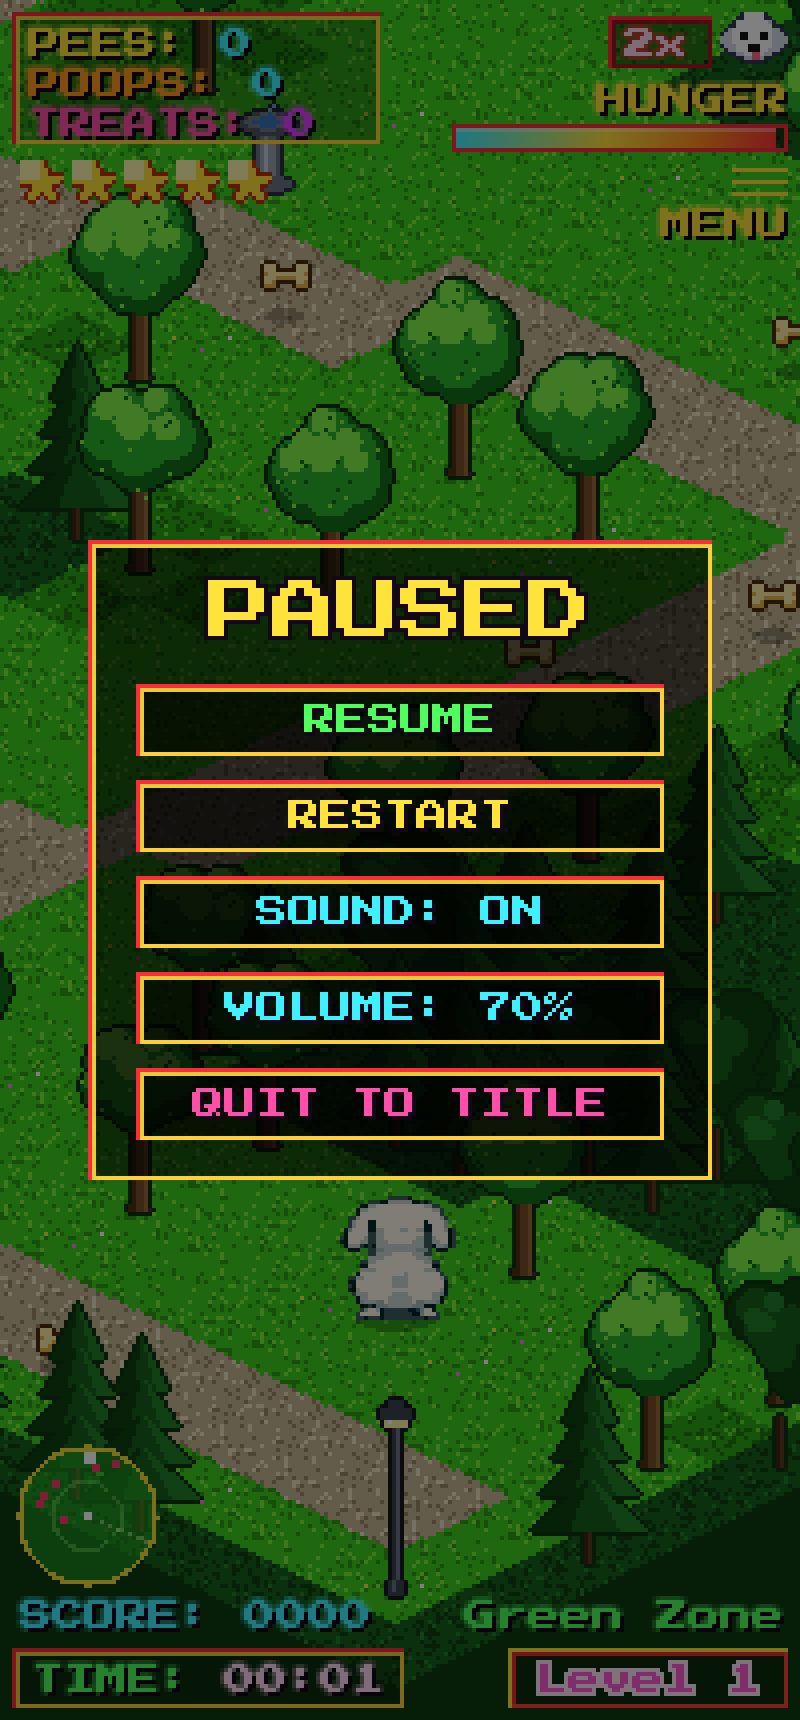
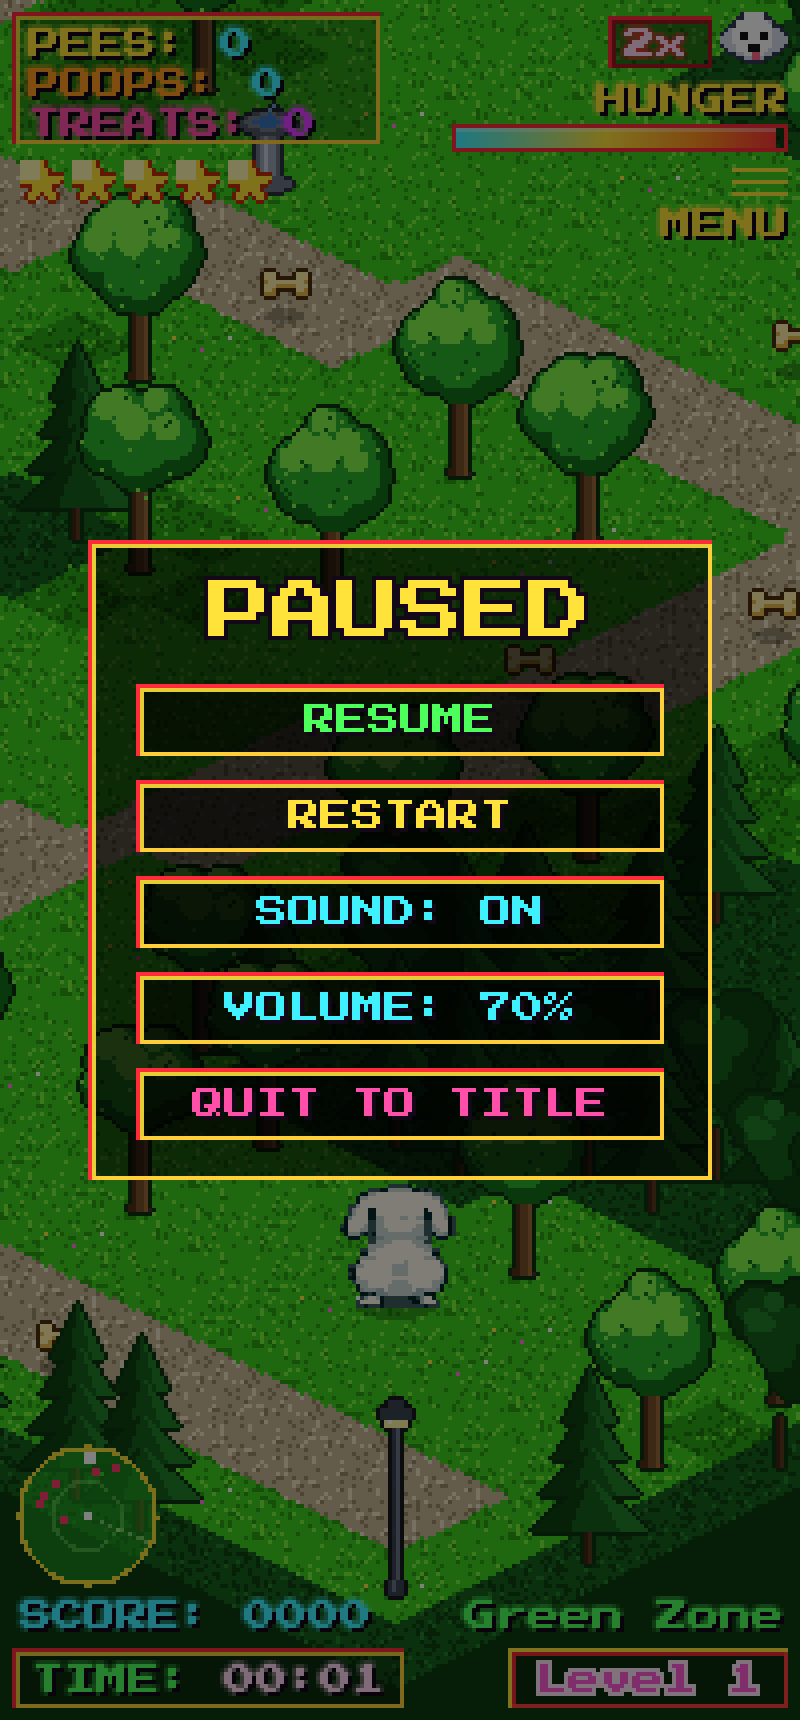
Title block centered between title and footer; faster base speed
- The portrait, buttons, INSERT BRAIN and SPEED FOR LIVES sit as one
  block centered between CRUSADER and SUPERVOID EDITIONS (measured from
  the dog's visible top), the title unmoved.
- Walk 4.4, run 7.5 tiles/s at the base 2 lives (hunger drain in
  proportion). The balance test checks the shortest walk in tiles.
  Full playtest passes.

Claude-Session: https://claude.ai/code/session_01M83brc3uYNtkMe9oqkk4LQ

diff --git a/src/scenes/overlays.ts b/src/scenes/overlays.ts
@@ -181,35 +181,33 @@ export class TitleScene extends Overlay {
       this.title.anchor.set(0.5);
     }
     const cx = Math.round(w / 2);
-    // The title near the top (TITLE.TOP), the buttons TITLE.BOTTOM_GAP above the publisher line
-    // with INSERT BRAIN between them (nearer the buttons), and the portrait in the middle of the
-    // space between the title and the buttons.
+    // The title near the top (TITLE.TOP). Under it, one block (the portrait, the buttons, INSERT
+    // BRAIN with its lives counter, SPEED FOR LIVES) centered between CRUSADER and the publisher
+    // line: the same space above and below it.
     const halfTitle = Math.round(this.title.height / 2);
     const titleY = Math.round(h * TITLE.TOP) + halfTitle;
     const editionY = titleY + halfTitle + 10;
-    const headerBottom = editionY + 6;
+    const headerBottom = editionY + 5;
     const footerTop = h - 6 - this.footer.textHeight;
-    const baseBottom = h - 16 - TITLE.BOTTOM_GAP;
-    // The buttons and INSERT BRAIN are raised TITLE.BUTTONS_RAISE towards the portrait, which stays
-    // where it was (centered between the title and the buttons' unraised place).
-    const menuBottom = baseBottom - TITLE.BUTTONS_RAISE;
-    const menuY = menuBottom - this.menu.height;
-    // SPEED FOR LIVES keeps SPEED_FOR_LIVES_LINES lines of space above the publisher line; INSERT
-    // BRAIN and its lives counter sit just above it.
-    const lineH = this.footer.textHeight + 2;
-    const speedY = footerTop - TITLE.SPEED_FOR_LIVES_LINES * lineH - this.speedText.textHeight;
     const rowH = 12;
-    const bestY = speedY - 5 - rowH;
-    // The portrait takes DOG_WIDTH of the screen, smaller if it would not fit (short screens).
-    const gapTop = headerBottom + 6;
-    const roomCenter = baseBottom - this.menu.height - 6 - gapTop;
-    const roomFit = menuY - 6 - gapTop;
-    const dogW = Math.max(24, Math.min(Math.round(w * TITLE.DOG_WIDTH), Math.floor(roomFit / TITLE.DOG_ASPECT)));
+    const below = TITLE.DOG_MENU_GAP + this.menu.height + TITLE.INSERT_BRAIN_GAP + rowH + 5 + this.speedText.textHeight;
+    const space = footerTop - headerBottom;
+    // The portrait takes DOG_WIDTH of the screen, smaller if the block would not fit (short screens).
+    const maxDogH = space - below - 2 * TITLE.BLOCK_MIN_MARGIN;
+    const dogW = Math.max(24, Math.min(Math.round(w * TITLE.DOG_WIDTH), Math.floor(maxDogH / TITLE.DOG_ASPECT)));
     const dogH = this.layoutDog(dogW);
-    const dogY = Math.min(gapTop + Math.max(0, Math.round((roomCenter - dogH) / 2)), menuY - 6 - dogH);
+    // The animated portrait's frame has a sliver of transparent space over the dog's head (the
+    // crop margin): center what is seen, not the frame.
+    const my = TITLE.DOG_CROP_MARGIN[1];
+    const topPad = this.artShown === 'old' ? 0 : Math.round((dogH * my) / (1 + 2 * my));
+    const margin = Math.max(0, Math.round((space - (dogH - topPad) - below) / 2));
+    const dogY = headerBottom + margin - topPad;
+    const menuY = dogY + dogH + TITLE.DOG_MENU_GAP;
+    const bestY = menuY + this.menu.height + TITLE.INSERT_BRAIN_GAP;
+    const speedY = bestY + rowH + 5;
     this.title.position.set(cx, titleY);
     this.edition.position.set(cx, editionY);
-    this.dog.position.set(cx, Math.max(gapTop, dogY));
+    this.dog.position.set(cx, dogY);
     this.menu.layout(w / 2, menuY);
     this.layoutLives(cx, bestY, rowH);
     this.speedText.position.set(cx, speedY);

diff --git a/src/config.ts b/src/config.ts
@@ -45,8 +45,8 @@ export const CAMERA = {
 } as const;
 
 export const PLAYER = {
-  WALK_SPEED: 3.9,
-  RUN_SPEED: 6.7,
+  WALK_SPEED: 4.4,
+  RUN_SPEED: 7.5,
   ACCEL: 16,
   DECEL: 20,
   /** Collision radius in tiles. */
@@ -89,17 +89,15 @@ export const TITLE = {
   /** The title (SUPERVILLAINED CRUSADER): its top at this fraction of the screen height. */
   TOP: 0.07,
   /**
-   * Space between the buttons (or where CONTINUE goes) and the publisher line, px: 8 plus one
-   * button's space (18 + 6). The portrait stays centered between title and buttons, so it rises
-   * half as much.
+   * The block under the title (portrait, buttons, INSERT BRAIN, SPEED FOR LIVES) is centered between
+   * CRUSADER and the publisher line. Its inner gaps (px): portrait to buttons, buttons to INSERT
+   * BRAIN; and the least space kept above and below it on short screens (the portrait shrinks).
    */
-  BOTTOM_GAP: 32,
-  /** The buttons and INSERT BRAIN then rise by one button's space (18 + 6), nearer the portrait. */
-  BUTTONS_RAISE: 24,
+  DOG_MENU_GAP: 6,
+  INSERT_BRAIN_GAP: 12,
+  BLOCK_MIN_MARGIN: 8,
   /** INSERT BRAIN (with the lives counter) and SPEED FOR LIVES under it: blink cycle, seconds (shown 60%). */
   INSERT_BRAIN_BLINK: 1,
-  /** Lines of space between SPEED FOR LIVES and the publisher line. */
-  SPEED_FOR_LIVES_LINES: 2,
   /** Glitch on the title's lettering: a burst every [min, max] s, lasting [min, max] s. */
   TEXT_GLITCH_EVERY: [1.8, 4.5],
   TEXT_GLITCH_TIME: [0.06, 0.2],
@@ -228,8 +226,8 @@ export const HUNGER = {
   START: 100,
   /** Drain per second by activity (scaled with PLAYER speeds: the same hunger per tile walked). */
   DRAIN_IDLE: 1.4,
-  DRAIN_WALK: 2.64,
-  DRAIN_RUN: 4.04,
+  DRAIN_WALK: 2.98,
+  DRAIN_RUN: 4.52,
   /** Hunger restored after losing a life. */
   REFILL_ON_LIFE_LOST: 50,
   /** Hunger below which the bar blinks. */

diff --git a/tests/balance.test.ts b/tests/balance.test.ts
@@ -69,10 +69,10 @@ function simulate(greed: number) {
 }
 
 describe('level 1 balance (bot)', () => {
-  it('the shortest walk takes most of a minute, and not eating at all is not viable', () => {
+  it('the shortest walk is long, and not eating at all is not viable', () => {
     const r = simulate(0);
-    // Most of a minute even at the faster walk (3.9 tiles/s); hunger per tile stays the same.
-    expect(r.time).toBeGreaterThan(40);
+    // A long walk in tiles (its time depends on PLAYER.WALK_SPEED; hunger per tile stays the same).
+    expect(r.time * PLAYER.WALK_SPEED).toBeGreaterThan(150);
     expect(r.time).toBeLessThan(110);
     expect(HUNGER.START - HUNGER.DRAIN_WALK * r.time).toBeLessThan(0);
   });

diff --git a/DECISIONS.md b/DECISIONS.md
@@ -612,3 +612,10 @@ The debug APK had reached 59 MB. What changed (originals always kept in the repo
   under it, two lines of space above SUPERVOID EDITIONS. The dream walks have no lives (they
   restart), so the speed cost stays in the Green Zone. Tuning: `LIVES.MAX`, `LIVES.SPEED_COST`
   (`systems/lives.ts`, tested).
+- Faster again at the base 2 lives: walk 4.4, run 7.5 tiles/s (hunger drain 2.98 and 4.52 per
+  second, same hunger per tile). The balance test now checks the shortest walk in tiles (over 150)
+  instead of seconds, so it does not move with the speed. The full playtest passes.
+- Title layout: the block under the title (portrait, buttons, INSERT BRAIN, SPEED FOR LIVES) is
+  centered between CRUSADER and SUPERVOID EDITIONS, measured from the dog's visible top (the
+  frame's transparent crop margin is left out): the same space above and below it, the title
+  where it was. On short screens the portrait shrinks to keep at least `TITLE.BLOCK_MIN_MARGIN`.
